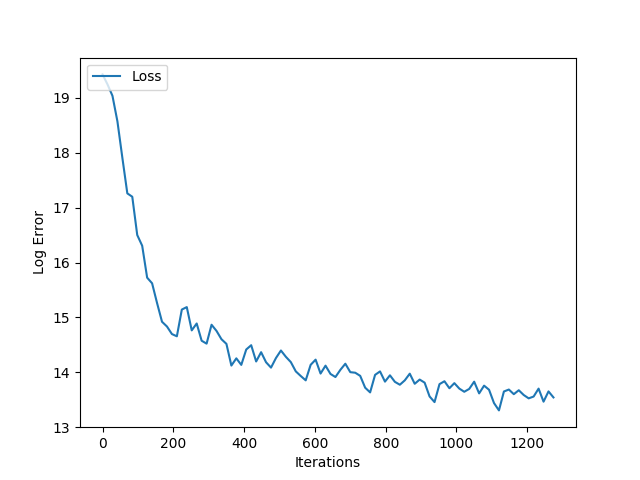
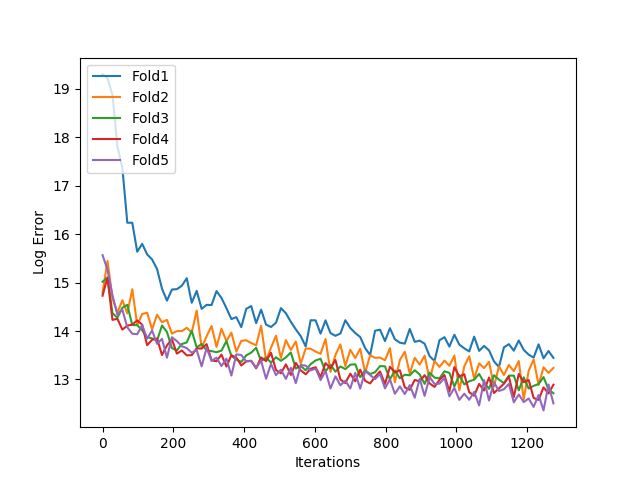
adding more to cross validation

diff --git a/model_relu_2_GCN.py b/model_relu_2_GCN.py
@@ -55,7 +55,7 @@ fold_iteration = 0
 #master_iteration = 0
 
 for fold in folds:
-	fold_iteration += 1
+	#fold_iteration += 1
 	master_iteration = 0
 	loss_array = []
 	iteration_array = []
@@ -113,16 +113,15 @@ for fold in folds:
 			master_iteration += 1
 	master_loss_array.append(loss_array)
 	master_iteration_array.append(iteration_array)
-	break
 	#if fold_iteration >= 4:
 	#	break
 print "done"
 print loss_array
 
-a = master_loss_array[0]
-b = master_iteration_array[0]
-plt.plot(b,a)
-plt.legend(['Loss'], loc='upper left')
+a = master_loss_array
+b = master_iteration_array
+plt.plot(b[0],a[0], b[1],a[1], b[2], a[2], b[3], a[3], b[4], a[4])
+plt.legend(['Fold1', 'Fold2', 'Fold3', 'Fold4', 'Fold5'], loc='upper left')
 plt.xlabel('Iterations')
 plt.ylabel('Log Error')
 plt.show()
